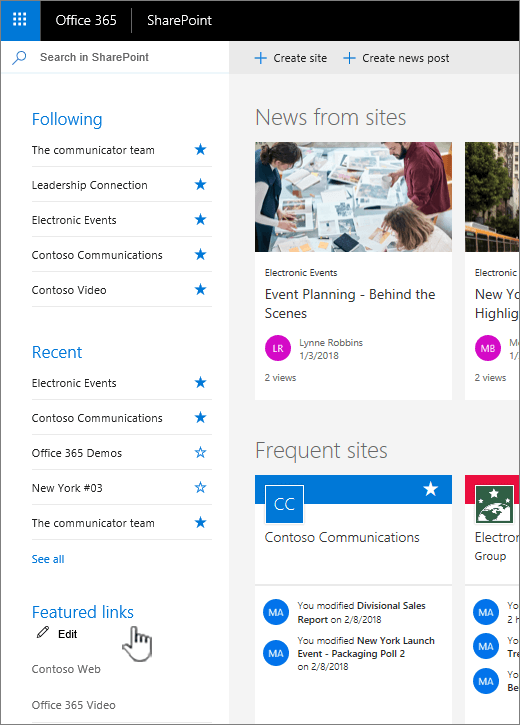
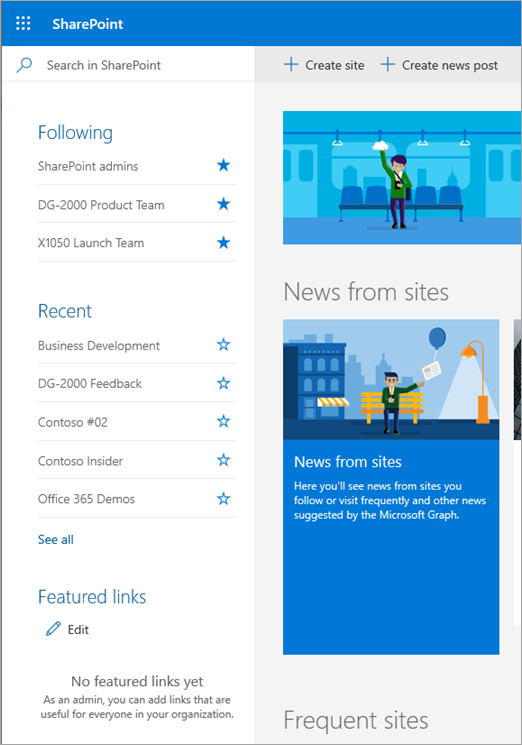
Updated image and text for current section name and design

diff --git a/SharePoint/SharePointOnline/change-links-list-on-sharepoint-home-page.md b/SharePoint/SharePointOnline/change-links-list-on-sharepoint-home-page.md
@@ -1,5 +1,5 @@
 ---
-title: "Change the Links list on the SharePoint home page"
+title: "Change the Featured links list on the SharePoint home page"
 ms.author: kaarins
 author: kaarins
 manager: pamgreen
@@ -19,23 +19,23 @@ search.appverid:
 - FRP150
 - MET150
 ms.assetid: aa93f89b-ffce-4edb-aa89-22b16d6915a7
-description: "Here is how SharePoint Online company administrators can change the featured links on SharePoint Home."
+description: "Learn how admins can change the Featured links list on the SharePoint home page."
 ---
 
-# Change the Links list on the SharePoint home page
+# Change the Featured links list on the SharePoint home page
 
- As a global or SharePoint admin in Office 365, you can feature the sites and content you want on the SharePoint home page by changing the **Links** list on the left side. To add links to a SharePoint Server page, see [Video: Add a link to a page](https://support.office.com/article/F9B329F9-67BB-4258-A686-9CD98415E7CA).
+ As a global or SharePoint admin in Office 365, you can feature the sites and content you want on the SharePoint home page by changing the **Featured links** list in the left pane. To add links to a SharePoint Server page, see [Video: Add a link to a page](https://support.office.com/article/F9B329F9-67BB-4258-A686-9CD98415E7CA).
   
 > [!NOTE]
-> Some functionality is introduced gradually to organizations that have opted in to the [Set up the Standard or Targeted release options in Office 365](/office365/admin/manage/release-options-in-office-365). This means that you may not yet see this feature or it may look different than what is described in the help articles. <br>To learn more about the SharePoint home page, see [Find news, sites, and portals in Office 365](https://support.office.com/article/6b85097a-87e0-4611-a29a-dfd49b1a1220). 
+To learn more about the SharePoint home page, see [Find news, sites, and portals in Office 365](https://support.office.com/article/6b85097a-87e0-4611-a29a-dfd49b1a1220). 
   
-To view the SharePoint home page in Office 365:
+To view the SharePoint home page:
   
-1. Sign in to Office 365. For help, see [Where do I sign in?](https://support.office.com/article/17e859dc-88be-45a0-97be-a8837efb2c24.aspx#BKMK_WhereSignIn).
+1. Sign in with your work or school account. For help, see [Where do I sign in?](https://support.office.com/article/17e859dc-88be-45a0-97be-a8837efb2c24.aspx#BKMK_WhereSignIn).
     
 2. Select SharePoint from the list of apps. 
     
-    ![Office 365 start page with SharePoint selected](media/4ff2c093-2b26-4d28-a65b-4d02e66818df.png)
+    ![Office 365 start page with SharePoint selected]((media/4ff2c093-2b26-4d28-a65b-4d02e66818df.png)
   
     If you don't see the list of apps, select the app launcher icon ![The app launcher icon in Office 365](media/e5aee650-c566-4100-aaad-4cc2355d909f.png) in the top left corner of the page, and then select **SharePoint**.
     
@@ -43,9 +43,9 @@ To view the SharePoint home page in Office 365:
   
 Can't find the app you're looking for? From the app launcher, select **All apps** to see an alphabetical list of the Office 365 apps available to you. From there, you can search for a specific app. 
   
-You'll see the **Links** list on the left side of the page. 
+You'll see the **Featured links** list on the left side of the page. 
   
-![Links list on SharePoint online home page](media/1bfded4a-2e65-47f5-95c2-ad3cf7e890fe.png)
+![Featured links list on the SharePoint home page](media/1bfded4a-2e65-47f5-95c2-ad3cf7e890fe.png)
   
 ## Add a link
 
@@ -54,7 +54,7 @@ You'll see the **Links** list on the left side of the page.
     ![Featured links with Edit selected](media/65008327-fb4d-4229-93a5-9b69e8d77660.png)
   
     > [!NOTE]
-    > If you do not see **Edit**, you don't have permissions to change the **Links** list. Contact your administrator. 
+    > If you do not see **Edit**, you don't have permissions to change the Featured links list. Contact your administrator. 
   
 2. To add a link, choose **+ Add**.
     
@@ -79,7 +79,7 @@ You'll see the **Links** list on the left side of the page.
     ![Featured list with edit selected](media/966fd31e-c5f5-4d5f-beac-742b10dcdc41.png)
   
     > [!NOTE]
-    > If you do not see **Edit**, you don't have permissions to change the **Links** list. Contact your administrator. 
+    > If you do not see **Edit**, you don't have permissions to change the Featured links list. Contact your administrator. 
   
 2. Click the link you want to change.
     
@@ -104,9 +104,9 @@ You'll see the **Links** list on the left side of the page.
     ![Featured list with edit selected](media/966fd31e-c5f5-4d5f-beac-742b10dcdc41.png)
   
     > [!NOTE]
-    > If you do not see **Edit**, you don't have permissions to change the **Links** list. Contact your administrator. 
+    > If you do not see **Edit**, you don't have permissions to change the Featured links list. Contact your administrator. 
   
-2. Drag and drop each link to the place you want within the list.
+2. Drag each link to the place you want within the list.
     
 3. To leave edit mode, click **Done** when you're finished. 
     
@@ -117,7 +117,7 @@ You'll see the **Links** list on the left side of the page.
     ![Featured list with edit selected](media/966fd31e-c5f5-4d5f-beac-742b10dcdc41.png)
   
     > [!NOTE]
-    > If you do not see **Edit**, you don't have permissions to change the **Links** list. Contact your administrator. 
+    > If you do not see **Edit**, you don't have permissions to change the Featured links list. Contact your administrator. 
   
 2. Click **X**. 
     
@@ -128,6 +128,6 @@ You'll see the **Links** list on the left side of the page.
 4. To leave edit mode, click **Done** when you're finished. 
     
 > [!NOTE]
-> If you had custom promoted sites in classic view of the SharePoint Sites page, the Links section of the SharePoint home page is pre-populated with those sites. The pre-population of promoted sites in the Links list happens only once when the first user visits the new SharePoint home page. If you go back to classic view and change the promoted sites, the changes will not be reflected in the Links list on the SharePoint home page. 
+> If you had custom promoted sites in classic view of the SharePoint Sites page, the Featured links section of the SharePoint home page is pre-populated with those sites. The pre-population of promoted sites in the Featured links list happens only once when the first user visits the new SharePoint home page. If you go back to classic view and change the promoted sites, the changes will not be reflected in the Featured links list on the SharePoint home page. 
   
 
